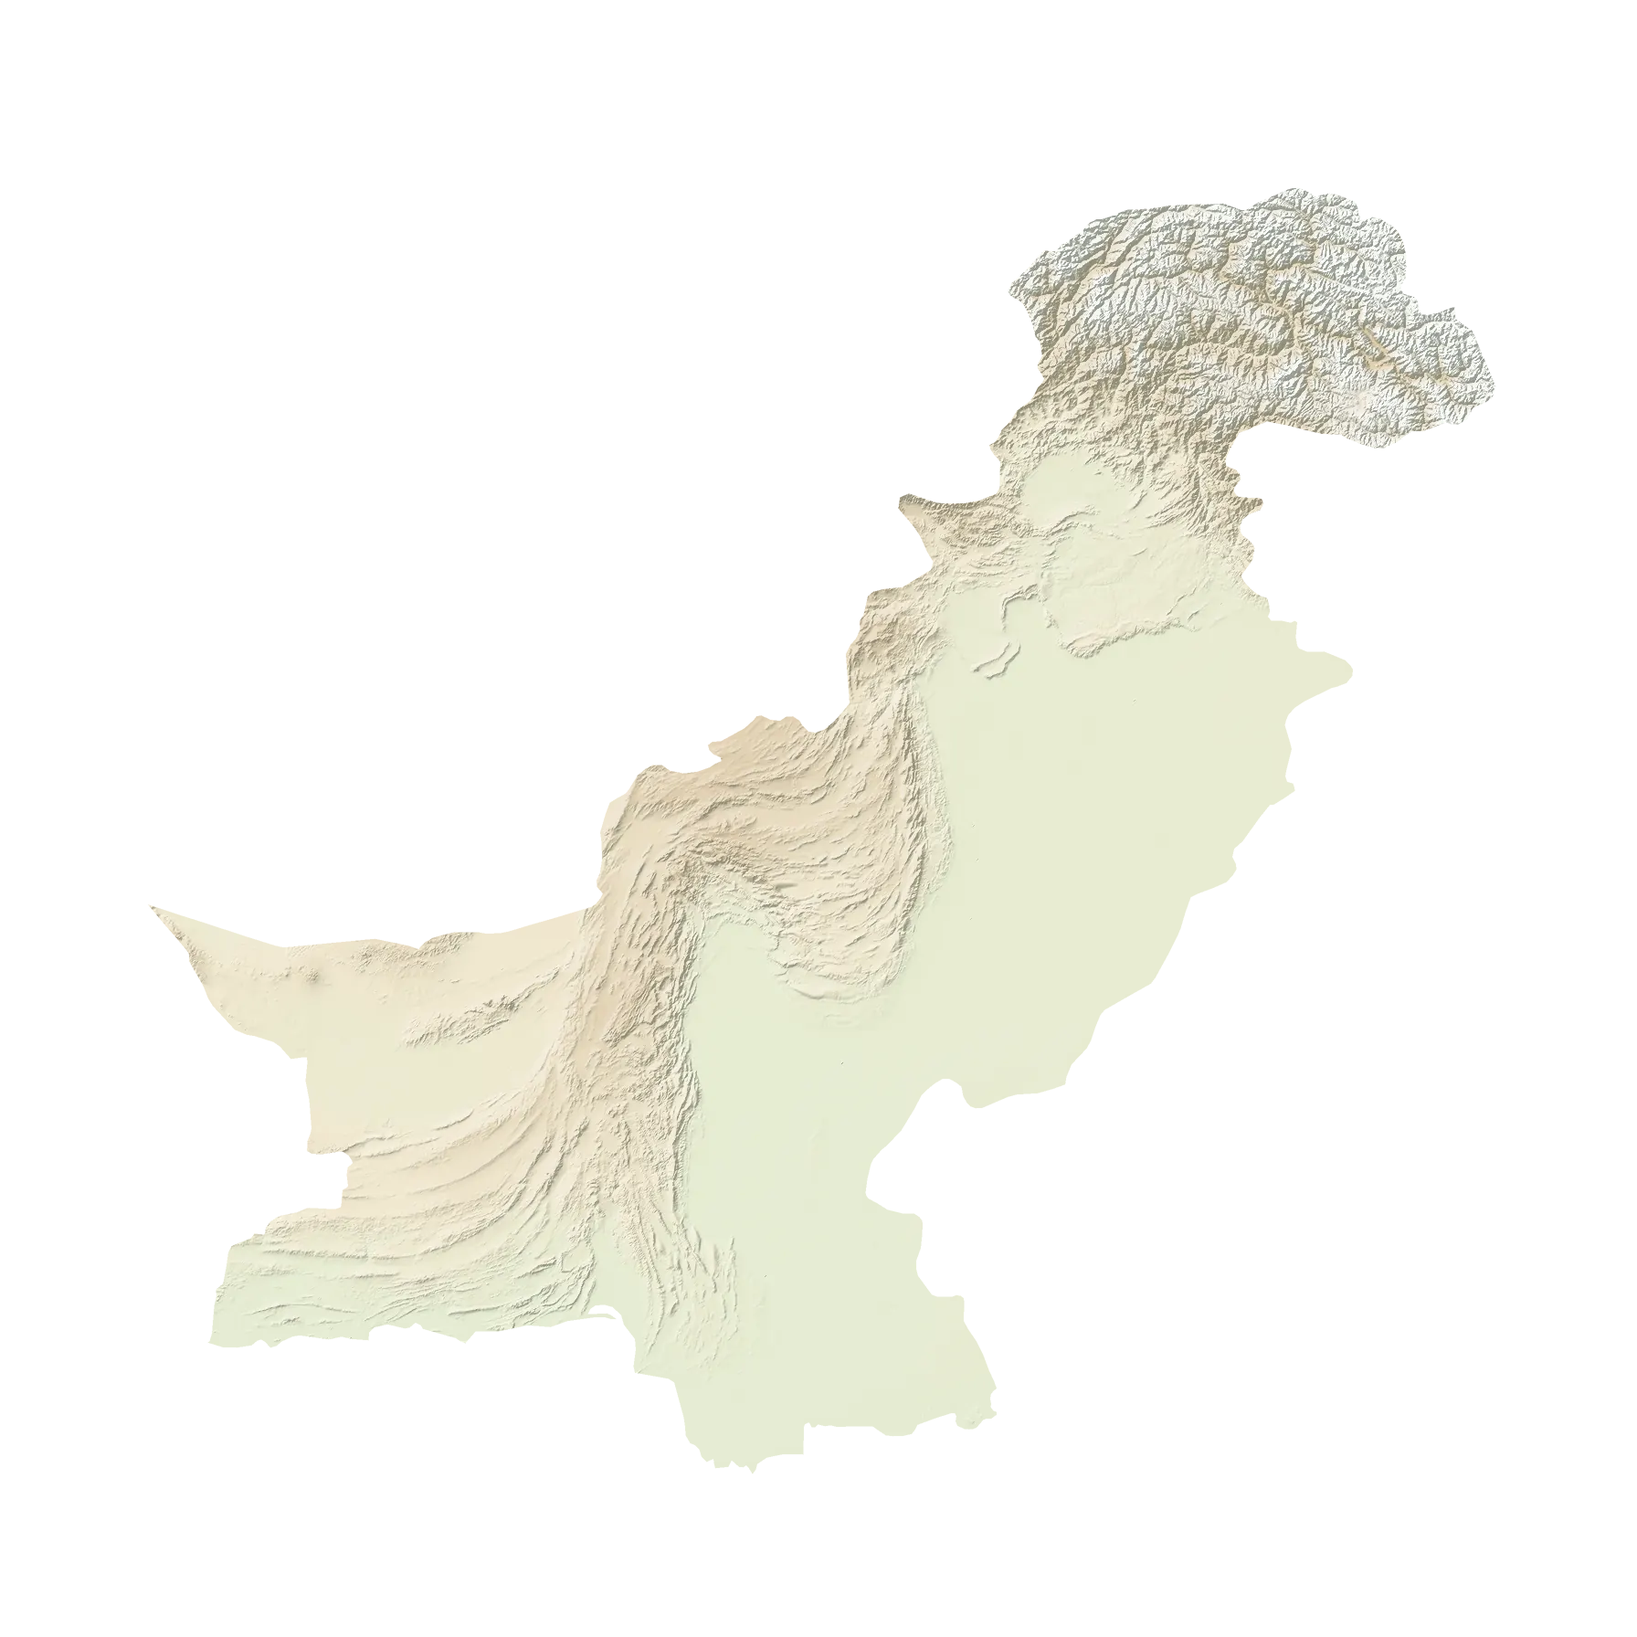
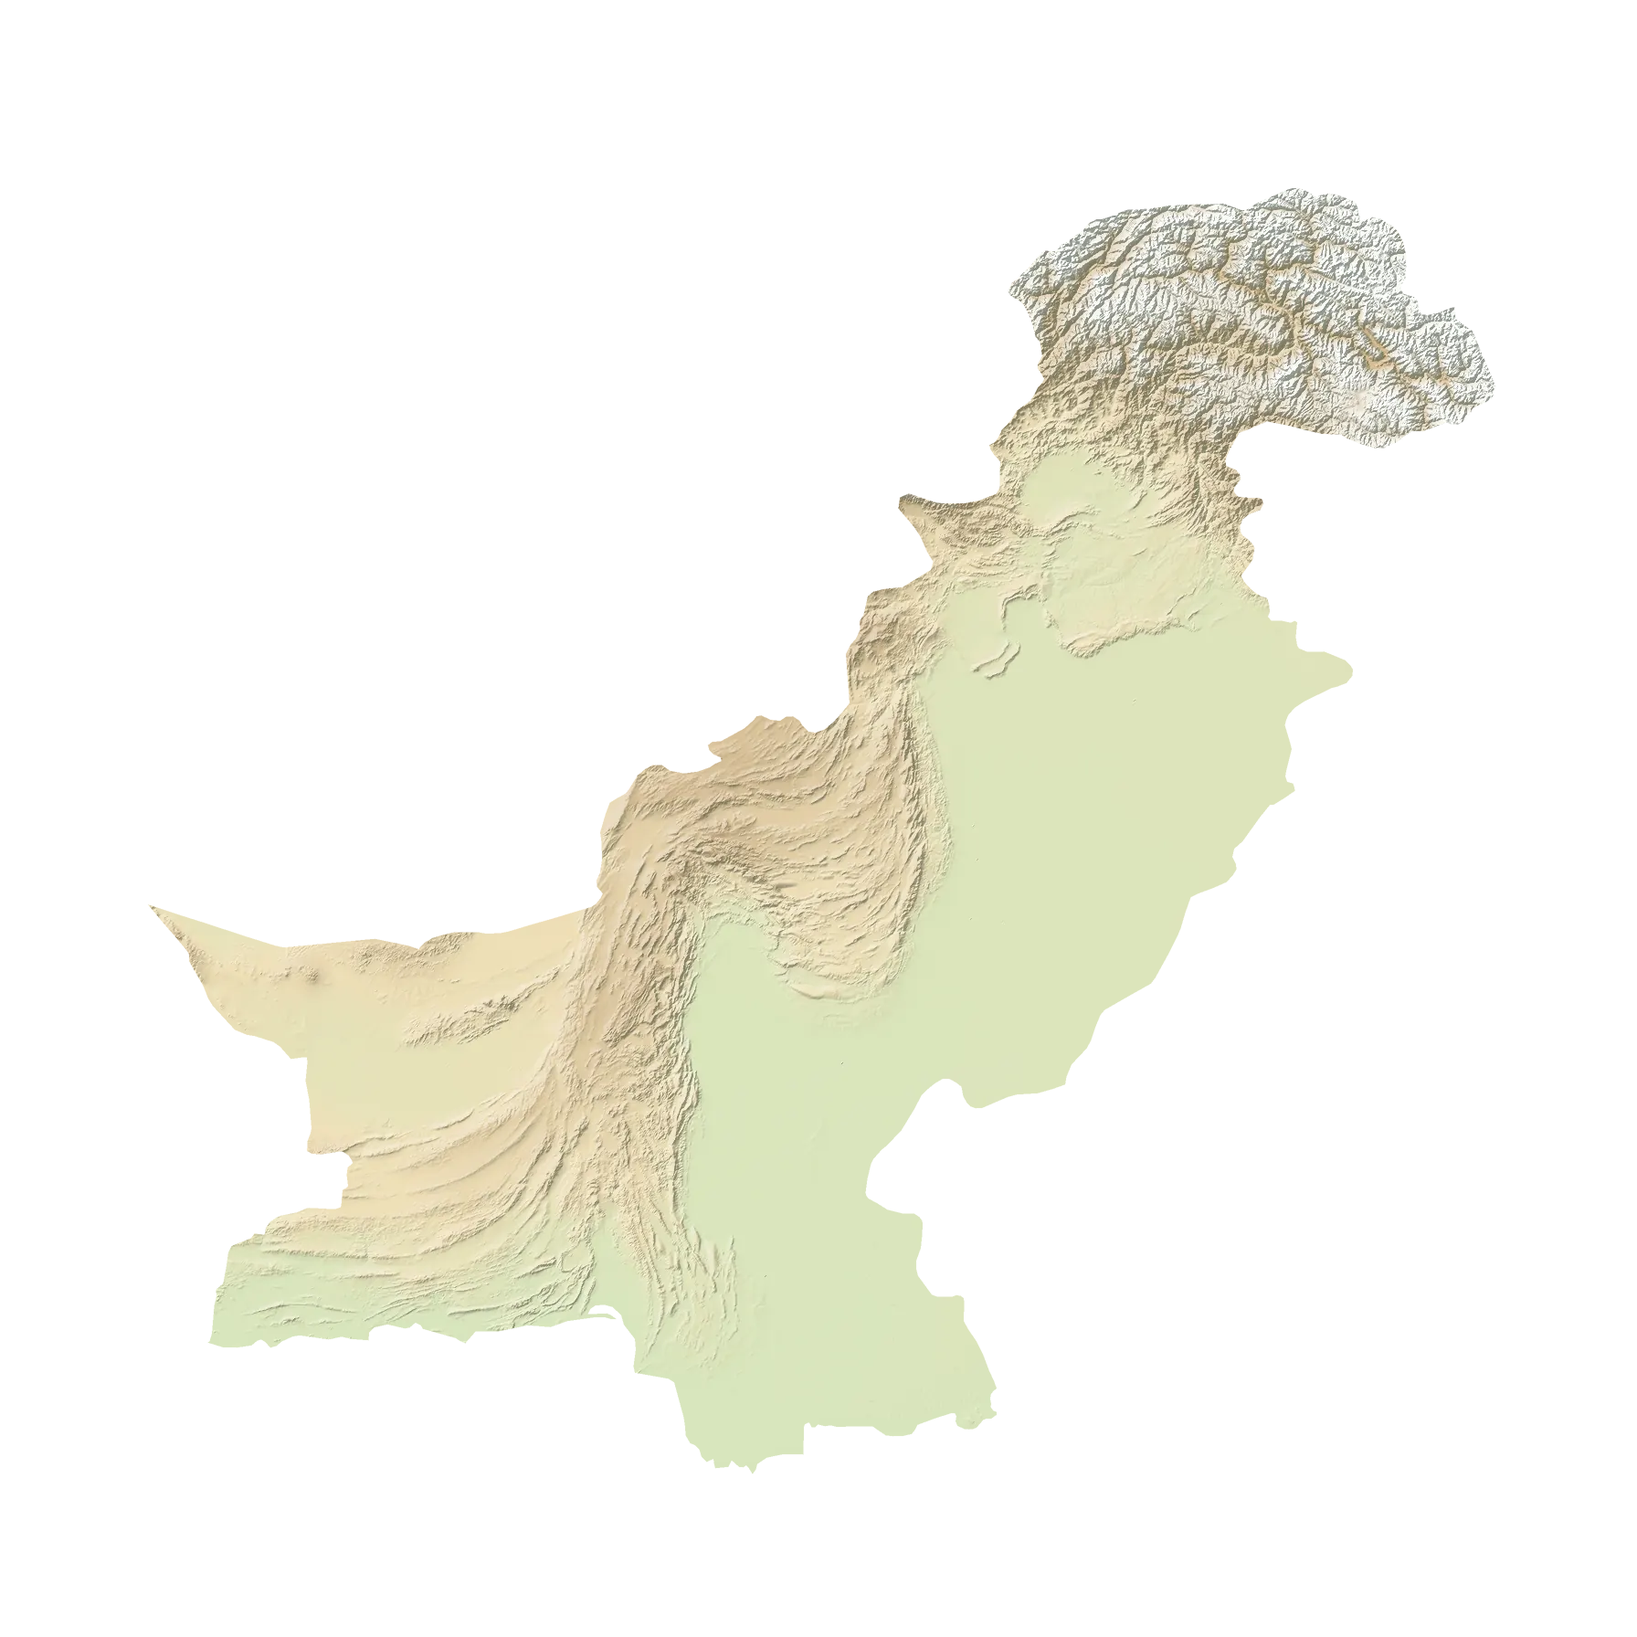
Richer relief tints

diff --git a/design-system/components/bundle.js b/design-system/components/bundle.js
@@ -243,7 +243,7 @@
       onTheWay: "Already on the way",
       arrives: "Arrives {time}",
       showWholeRoute: "Show the whole route",
-      lastPassed: "Last stop",
+      lastPassed: "Just passed",
       finalStop: "Final stop",
       halt: "{d} halt",
       seeAllStopsN: "See all {n} stops",
@@ -286,7 +286,18 @@
       whichRun: "Which run",
       pickStopHint: "Tap the station where you get on or off.",
       timetableTimes: "Times are from the timetable.",
-      loadFailed: "Couldn\u2019t load this. Trying again\u2026"
+      loadFailed: "Couldn\u2019t load this. Trying again\u2026",
+      // Right now rows, days on times, photos
+      startedFrom: "Started from",
+      startsFrom: "Starts from",
+      kmAwayNow: "{km} km away \xB7 {speed} km/h now",
+      plannedAt: "Planned {time}",
+      yesterday: "Yesterday",
+      dayTime: "{day} {time}",
+      timeOnDay: "{time} {day}",
+      nextDay: "next day",
+      dayN: "day {n}",
+      photoBy: "Photo: {author} \xB7 {licence}"
     },
     ur: {
       appTitle: "\u067E\u0679\u0691\u06CC",
@@ -521,7 +532,18 @@
       whichRun: "\u06A9\u0648\u0646 \u0633\u0627 \u0633\u0641\u0631",
       pickStopHint: "\u0648\u06C1 \u0627\u0633\u0679\u06CC\u0634\u0646 \u0686\u0646\u06CC\u06BA \u062C\u06C1\u0627\u06BA \u0622\u067E \u0633\u0648\u0627\u0631 \u06C1\u0648\u06BA \u06AF\u06D2 \u06CC\u0627 \u0627\u062A\u0631\u06CC\u06BA \u06AF\u06D2\u06D4",
       timetableTimes: "\u0627\u0648\u0642\u0627\u062A \u0679\u0627\u0626\u0645 \u0679\u06CC\u0628\u0644 \u06A9\u06D2 \u0645\u0637\u0627\u0628\u0642 \u06C1\u06CC\u06BA\u06D4",
-      loadFailed: "\u0644\u0648\u0688 \u0646\u06C1\u06CC\u06BA \u06C1\u0648 \u0633\u06A9\u0627\u06D4 \u062F\u0648\u0628\u0627\u0631\u06C1 \u06A9\u0648\u0634\u0634 \u06C1\u0648 \u0631\u06C1\u06CC \u06C1\u06D2\u2026"
+      loadFailed: "\u0644\u0648\u0688 \u0646\u06C1\u06CC\u06BA \u06C1\u0648 \u0633\u06A9\u0627\u06D4 \u062F\u0648\u0628\u0627\u0631\u06C1 \u06A9\u0648\u0634\u0634 \u06C1\u0648 \u0631\u06C1\u06CC \u06C1\u06D2\u2026",
+      // Right now rows, days on times, photos
+      startedFrom: "\u0631\u0648\u0627\u0646\u06AF\u06CC \u06A9\u0627 \u0627\u0633\u0679\u06CC\u0634\u0646",
+      startsFrom: "\u0631\u0648\u0627\u0646\u06AF\u06CC \u06A9\u0627 \u0627\u0633\u0679\u06CC\u0634\u0646",
+      kmAwayNow: "{km} \u06A9\u0644\u0648\u0645\u06CC\u0679\u0631 \u062F\u0648\u0631 \xB7 \u0627\u0628\u06BE\u06CC {speed} \u06A9\u0644\u0648\u0645\u06CC\u0679\u0631 \u0641\u06CC \u06AF\u06BE\u0646\u0679\u06C1",
+      plannedAt: "\u0645\u0642\u0631\u0631\u06C1 \u0648\u0642\u062A {time}",
+      yesterday: "\u06AF\u0632\u0634\u062A\u06C1 \u0631\u0648\u0632",
+      dayTime: "{day} {time}",
+      timeOnDay: "{day} {time}",
+      nextDay: "\u0627\u06AF\u0644\u06D2 \u062F\u0646",
+      dayN: "\u062F\u0646 {n}",
+      photoBy: "\u062A\u0635\u0648\u06CC\u0631: {author} \xB7 {licence}"
     }
   };
   var MONTHS = {
@@ -1081,10 +1103,10 @@
         const ms = x0 + Math.min(Math.max(f, 0), 1) * (x1 - x0);
         let best = points[0];
         for (const p of points) if (Math.abs(p[0] - ms) < Math.abs(best[0] - ms)) best = p;
-        const at2 = (best[0] - x0) / (x1 - x0) * 100;
+        const at3 = (best[0] - x0) / (x1 - x0) * 100;
         cursor.hidden = tip.hidden = false;
-        cursor.style.insetInlineStart = `${at2}%`;
-        tip.style.insetInlineStart = `${Math.min(Math.max(at2, 14), 86)}%`;
+        cursor.style.insetInlineStart = `${at3}%`;
+        tip.style.insetInlineStart = `${Math.min(Math.max(at3, 14), 86)}%`;
         tip.innerHTML = `${bdi(clock(best[0]))} \xB7 ${best[1] > MOVING ? bdi(t("kmh", { n: Math.round(best[1]) })) : esc(t("stopped"))}`;
       };
       const leave = (e) => {
@@ -1277,14 +1299,31 @@
   var place2 = (s) => s ? stationName(s.name, s.nameUr) : "";
   var placeEn = (s) => s ? place(s.name) : "";
   var placeUr2 = (s) => clean(s?.nameUr).replace(/[\s,،.]+$/, "");
-  var cityOf = (s) => isUrdu() && s?.cityUr ? s.cityUr : s?.city ? stationName(s.city, "") : place2(s);
+  var cityOf = (s) => isUrdu() ? s?.cityUr || place2(s) : s?.city ? stationName(s.city, "") : place2(s);
   var trainTitle = (train2) => trainName(train2);
   var trainNo = (train2) => `${train2.label ?? train2.number} ${t(train2.up ? "up" : "dn")}`;
   var badgeOf = (train2, size) => ({ number: train2.label ?? String(train2.number), direction: train2.up ? "up" : "dn", ...size ? { size } : {} });
   var route = (a, b) => t("passesFromTo", { a: place2(a), b: place2(b) });
   var ltr = (s) => isUrdu() ? `\u2066${s}\u2069` : s;
-  var time = (min) => ltr(`${clockMin(min)}${min >= 1440 ? ` +${Math.floor(min / 1440)}` : ""}`);
-  var approx = (min) => ltr(`~${time(min)}`);
+  var DAY_MS = 864e5;
+  function dayWord(diff) {
+    if (diff === -1) return t("yesterday");
+    if (diff === 0) return t("today");
+    if (diff === 1) return t("tomorrow");
+    const wd = new Date(Date.now() + 5 * 36e5 + diff * DAY_MS).getUTCDay();
+    return t(`wd${wd}`);
+  }
+  function at(min, now, mark, always) {
+    const clock2 = ltr(`${mark}${clockMin(min)}`);
+    if (now == null) {
+      const n = Math.floor(min / 1440);
+      return n <= 0 ? clock2 : t("timeOnDay", { time: clock2, day: n === 1 ? t("nextDay") : t("dayN", { n: n + 1 }) });
+    }
+    const diff = Math.floor(min / 1440) - Math.floor(now / 1440);
+    return diff === 0 && !always ? clock2 : t("dayTime", { day: dayWord(diff), time: clock2 });
+  }
+  var time = (min, now) => at(min, now, "", false);
+  var approx = (min, now) => at(min, now, "~", false);
   var kmNum = (n) => Math.round(n).toLocaleString("en-US");
   var km = (n) => t("km", { n: kmNum(n) });
   function dateLabel(iso) {
@@ -1431,7 +1470,7 @@
     }
   };
   var pct = (v, total) => `${+(v / total * 100).toFixed(3)}%`;
-  var at = (x, y, w, h) => `left:${pct(x, w)};top:${pct(y, h)}`;
+  var at2 = (x, y, w, h) => `left:${pct(x, w)};top:${pct(y, h)}`;
   var d = (pts) => pts.map(([x, y], i) => `${i ? "L" : "M"}${x} ${y}`).join(" ");
   var dist = (a, b) => Math.hypot(a[0] - b[0], a[1] - b[1]);
   var near = (p, list2, r) => list2.some((q) => dist(p, q) < r);
@@ -1453,15 +1492,15 @@
     }
     return out;
   }
-  var dotEl = (cls, [x, y], w, h) => `<span class="p-mapstandin__dot ${cls}" style="${at(x, y, w, h)}"></span>`;
+  var dotEl = (cls, [x, y], w, h) => `<span class="p-mapstandin__dot ${cls}" style="${at2(x, y, w, h)}"></span>`;
   var rtl = () => isUrdu() ? "rtl" : "ltr";
   function nameEl(key, [x, y], side, major, w, h) {
     const [en, ur] = NAMES[key];
     const cls = ["p-mapstandin__at", `p-mapstandin__at--${side}`, "p-mapstandin__name", major ? "p-mapstandin__name--major" : "", isUrdu() ? "p-mapstandin__name--ur" : ""].filter(Boolean).join(" ");
-    return `<span class="${cls}" style="${at(x, y, w, h)}">${esc(isUrdu() ? ur : en)}</span>`;
+    return `<span class="${cls}" style="${at2(x, y, w, h)}">${esc(isUrdu() ? ur : en)}</span>`;
   }
   function pin(kind, text, [x, y], side, w, h, wide = false) {
-    return `<div class="p-mapstandin__at p-mapstandin__at--${side} p-mapstandin__pin${wide ? " p-mapstandin__pin--wide" : ""}" dir="${rtl()}" style="${at(x, y, w, h)}">${mapLabel({ kind, title: text.title, sub: text.sub })}</div>`;
+    return `<div class="p-mapstandin__at p-mapstandin__at--${side} p-mapstandin__pin${wide ? " p-mapstandin__pin--wide" : ""}" dir="${rtl()}" style="${at2(x, y, w, h)}">${mapLabel({ kind, title: text.title, sub: text.sub })}</div>`;
   }
   function shell(mode, w, h, label, body2) {
     return `<div class="p-mapstandin p-mapstandin--${mode}"><div class="p-mapstandin__box" style="--w:${w};--h:${h}"><svg class="p-mapstandin__svg" viewBox="0 0 ${w} ${h}" role="img" aria-label="${esc(label)}">${body2.svg}</svg><div class="p-mapstandin__layer" aria-hidden="true">${body2.layer}</div>${body2.cards || ""}</div></div>`;
@@ -1485,7 +1524,7 @@
     const svg = g.rails.map((r) => `<path class="p-mapstandin__rail" d="${d(r)}"/>`).join("") + `<path class="p-mapstandin__route-casing" d="${d(done)}"/><path class="p-mapstandin__route-done" d="${d(done)}"/><path class="p-mapstandin__route-ahead" d="${d(ahead)}"/>`;
     const showStop = yourStop && g.bahawalpur;
     const layer = g.places.map(([k, x, y]) => dotEl("p-mapstandin__dot--station p-mapstandin__dot--onroute", [x, y], w, h)).join("") + dotEl("p-mapstandin__dot--city", g.multan, w, h) + (showStop ? dotEl("p-mapstandin__dot--station p-mapstandin__dot--onroute", g.bahawalpur, w, h) : "") + g.places.map(([k, x, y, side]) => nameEl(k, [x, y], side, false, w, h)).join("");
-    const cards2 = pin("next", next, g.multan, g.multanSide, w, h) + (showStop ? pin("yourstop", yourStop, g.bahawalpur, "e", w, h) : "") + `<div class="p-mapstandin__train" dir="ltr" style="${at(here[0], here[1], w, h)}">${trainMarker({ label: train2.label })}</div>`;
+    const cards2 = pin("next", next, g.multan, g.multanSide, w, h) + (showStop ? pin("yourstop", yourStop, g.bahawalpur, "e", w, h) : "") + `<div class="p-mapstandin__train" dir="ltr" style="${at2(here[0], here[1], w, h)}">${trainMarker({ label: train2.label })}</div>`;
     return shell("zoom", w, h, t("mapFollowing", { train: train2.label }), { svg, layer, cards: cards2 });
   }
   function stationMap({ layout = "phone", selected = { title: "" }, hover } = {}) {
@@ -1674,16 +1713,17 @@
     const ests2 = data.ests || [];
     const progress = run && data.progress ? data.progress : { passedIdx: -1, nextIdx: -1, kmDone: 0, kmToNext: 0 };
     const now = data.now ?? 0;
+    const ref = run && data.now != null ? data.now : void 0;
     const first = stops[0], last = stops.at(-1);
     const { nextIdx, passedIdx } = progress;
     const mineIdx = data.myStop ? stops.findIndex((s) => s.id === data.myStop) : -1;
     const est = (i) => ests2[i]?.est != null && !ests2[i].passed ? ests2[i].est : null;
     const inTime = (i) => est(i) != null ? t("inTime", { d: dur(est(i) - now) }) : "";
-    const exp = (i) => est(i) != null ? { expected: approx(est(i)) } : schedOf(stops[i]) != null ? { expected: time(schedOf(stops[i])) } : void 0;
+    const exp = (i) => est(i) != null ? { expected: approx(est(i), ref) } : schedOf(stops[i]) != null ? { expected: time(schedOf(stops[i]), ref) } : void 0;
     const both = (i) => {
       const sched = schedOf(stops[i]);
       if (est(i) == null) return exp(i);
-      return { expected: approx(est(i)), ...sched != null && Math.round(est(i)) !== sched ? { scheduled: time(sched) } : {} };
+      return { expected: approx(est(i), ref), ...sched != null && Math.round(est(i)) !== sched ? { scheduled: time(sched, ref) } : {} };
     };
     const trainText = (full) => {
       const st = run?.status;
@@ -1705,6 +1745,7 @@
       mineIdx,
       est,
       now,
+      ref,
       run,
       progress,
       stops,
@@ -1726,7 +1767,7 @@
     const d2 = derive(data);
     if (!data.run || !d2.next || !d2.prev) return "";
     const train2 = { label: `${trainNo(data.train)} \xB7 ${t("kmh", { n: data.run.speed })}` };
-    const when = d2.est(d2.nextIdx) != null ? approx(d2.est(d2.nextIdx)) : "";
+    const when = d2.est(d2.nextIdx) != null ? approx(d2.est(d2.nextIdx), d2.ref) : "";
     const join2 = (...p) => p.filter(Boolean).join(" \xB7 ");
     if (layout !== "web") {
       return trainMap({ layout, train: train2, next: { title: place2(d2.next), sub: join2(when, km(d2.progress.kmToNext)) } });
@@ -1735,7 +1776,7 @@
       layout,
       train: train2,
       next: { title: place2(d2.next), sub: join2(when, d2.inTime(d2.nextIdx), km(d2.progress.kmToNext)) },
-      ...d2.mine && d2.mineIdx > d2.nextIdx && d2.est(d2.mineIdx) != null ? { yourStop: { title: place2(d2.mine), sub: `${t("yourStop")} \xB7 ${approx(d2.est(d2.mineIdx))}` } } : {}
+      ...d2.mine && d2.mineIdx > d2.nextIdx && d2.est(d2.mineIdx) != null ? { yourStop: { title: place2(d2.mine), sub: `${t("yourStop")} \xB7 ${approx(d2.est(d2.mineIdx), d2.ref)}` } } : {}
     });
   }
   function speedCard(data) {
@@ -1758,7 +1799,7 @@
     const rows = [];
     let tail = passedIdx;
     if (passedIdx >= 0) {
-      rows.push({ kind: "passed", name: place2(d2.prev), sub: t("lastPassed"), ...d2.schedOf(d2.prev) != null ? { time: { expected: time(d2.schedOf(d2.prev)) } } : {} });
+      rows.push({ kind: "passed", name: place2(d2.prev), sub: t("lastPassed"), ...d2.schedOf(d2.prev) != null ? { time: { expected: time(d2.schedOf(d2.prev), d2.ref) } } : {} });
     }
     rows.push({ kind: "train", name: d2.trainText(false) });
     if (nextIdx >= 0) {
@@ -1805,9 +1846,9 @@
       );
     }
     if (run && d2.mineIdx <= d2.passedIdx) {
-      const at2 = data.ests?.[d2.mineIdx]?.at ?? (d2.schedOf(d2.mine) != null ? d2.schedOf(d2.mine) + run.late : null);
+      const at3 = data.ests?.[d2.mineIdx]?.at ?? (d2.schedOf(d2.mine) != null ? d2.schedOf(d2.mine) + run.late : null);
       return row(
-        fill(note(at2 != null ? t("passedYourStop", { time: time(at2) }) : `${t("yourStop")} \xB7 ${place2(d2.mine)}`)),
+        fill(note(at3 != null ? t("passedYourStop", { time: time(at3, d2.ref) }) : `${t("yourStop")} \xB7 ${place2(d2.mine)}`)),
         Button({ label: t("change"), href: pickHref, variant: "link" })
       );
     }
@@ -1847,7 +1888,7 @@
         StopTimeline({ mode: "compact", rows: timelineRows(data, d2) }),
         JourneyProgress({
           fraction: d2.totalKm > 0 ? Math.min(1, Math.max(0, d2.progress.kmDone / d2.totalKm)) : 0,
-          start: d2.passedIdx >= 0 && first.dep != null && run.status?.kind !== "wait" ? t("leftAt", { station: place2(first), time: time(first.dep) }) : place2(first),
+          start: d2.passedIdx >= 0 && first.dep != null && run.status?.kind !== "wait" ? t("leftAt", { station: place2(first), time: time(first.dep, d2.ref) }) : place2(first),
           end: t("kmOf", { done: kmNum(done ? d2.totalKm : d2.progress.kmDone), total: kmNum(d2.totalKm) })
         }),
         yourStopPrompt(data, d2),
@@ -1954,10 +1995,10 @@
       const change = !pick ? { change: true } : {};
       if (passed) {
         const sched = d2.schedOf(s);
-        const at2 = sched != null ? { time: { expected: time(sched) } } : {};
+        const at3 = sched != null ? { time: { expected: time(sched, d2.ref) } } : {};
         const kmText = i === 0 ? join2(t("start"), km(0)) : i === passedIdx ? join2(km(s.km), t("lastPassed")) : km(s.km);
-        if (mine) out.push({ kind: "yourstop", name, sub: join2(t("yourStop"), km(s.km)), ...at2, ...change });
-        else out.push({ kind: "passed", name, sub: kmText, ...at2 });
+        if (mine) out.push({ kind: "yourstop", name, sub: join2(t("yourStop"), km(s.km)), ...at3, ...change });
+        else out.push({ kind: "passed", name, sub: kmText, ...at3 });
         if (i === passedIdx) out.push({ kind: "train", name: d2.trainText(true) });
         return;
       }
@@ -2028,7 +2069,7 @@
       notice(data.notice),
       data.loading ? note(t("loading")) : section(
         row(fill(SectionHeader({ label: t("nextTrains"), count: rows.length })), StatusChip({ tone: "neutral", text: t("updated", { ago: age }) })),
-        rows.length ? list(...rows.map((r) => boardRow(r, station2))) : note(t("noTrainsSoon"))
+        rows.length ? list(...rows.map((r) => boardRow(r, station2, data.now))) : note(t("noTrainsSoon"))
       )
     );
     return frame({
@@ -2042,14 +2083,14 @@
       body: web ? AppBar({ live: data.live, lang: getLang(), back: { href: "#/", label: t("home") } }) + panel : panel
     });
   }
-  function boardRow(r, station2) {
+  function boardRow(r, station2, now) {
     const { train: train2, kind, origin, dest, sched, est, late, gps, runId, kmAway, atPlatform } = r;
     const moved = est !== sched;
     let when;
-    if (atPlatform) when = { expected: time(est) };
-    else if (late != null) when = { expected: approx(est) };
-    else when = { expected: time(sched) };
-    if (when.expected !== time(sched) && moved) when.scheduled = time(sched);
+    if (atPlatform) when = { expected: time(est, now) };
+    else if (late != null) when = { expected: approx(est, now) };
+    else when = { expected: time(sched, now) };
+    if (when.expected !== time(sched, now) && moved) when.scheduled = time(sched, now);
     let sub;
     if (kind === "starts") sub = t("startsHereTo", { x: place2(dest) });
     else if (kind === "ends") sub = t("arrivesFrom", { x: place2(origin) });

diff --git a/public/css/tokens.css b/public/css/tokens.css
@@ -34,16 +34,16 @@
   --map-border: #8e8799; /* Province and country borders, dashed. */
   --map-rail: #7c8580; /* Rail lines with no train selected. */
   --map-station: var(--sabz-700); /* Small station dots, shown once the map is zoomed in. */
-  --map-outside: #e3e8e4; /* The fade over the neighbouring countries, so Pakistan stands out. */
+  --map-outside: #dde4df; /* The fade over the neighbouring countries, so Pakistan stands out. */
   --map-urban: #e9dfcf; /* Built-up areas, zoomed in. */
   --map-green: #dfe8cc; /* Farmland and grass, zoomed in. */
   --map-wood: #c9dcb8; /* Forest, zoomed in. */
   --map-ice: #f7fafc; /* Glaciers. */
-  --map-relief-low: #e6edd3; /* Relief tint for the plains, up to about 200 m. */
-  --map-relief-mid: #f1e8cf; /* Relief tint for the uplands, around 900 m. */
-  --map-relief-high: #ddc9a8; /* Relief tint for the mountains, around 2,600 m. */
-  --map-relief-peak: #f7f7f4; /* Relief tint for the high peaks, 4,800 m and up. */
-  --map-relief-shade: #4b5a4a; /* The colour of slopes facing away from the sun in the relief. */
+  --map-relief-low: #d9e6bd; /* Relief tint for the plains, up to about 200 m. */
+  --map-relief-mid: #efdfb7; /* Relief tint for the uplands, around 900 m. */
+  --map-relief-high: #cfb48a; /* Relief tint for the mountains, around 2,600 m. */
+  --map-relief-peak: #fbfbf8; /* Relief tint for the high peaks, 4,800 m and up. */
+  --map-relief-shade: #3a4a3b; /* The colour of slopes facing away from the sun in the relief. */
 
   /* Type families */
   --font-body: Barlow, system-ui, sans-serif;
